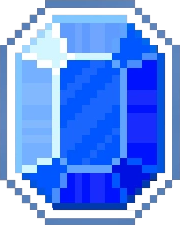
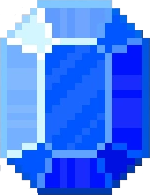
Debut documentation / commentaires
Change l'icone pour le bonus score et ajout image pour explosion. Debut code explosion ??

diff --git a/ControleurJeu.py b/ControleurJeu.py
@@ -1,5 +1,6 @@
 import random
 from threading import Timer
+import time
 from ControleurMenu import ControleurMenu
 from ModeleJeu import Asteroide, Laser, Ovni, Missile, Mine, PowerUp
 from VueJeu import VueJeu
@@ -9,13 +10,18 @@ from functools import partial
 
 
 class Mouvement(tk.Frame):
+    '''
+    Classe mouvement, qui s'occupe de tout ce qui a un rapport avec un mouvement des objets du jeu (vaisseau, missile, ovnis, asteroides, etc)
+    Prend comme parametre un objet tkinter
+    '''
 
     def __init__(self):
-        self.imageV = tk.PhotoImage(file='Images/Vaisseau.png').subsample(12,12)
+        pass
 
 
-    """Methode qui permet le mouvement du vaisseau lorsque la souris se deplace"""
+    
     def moveVaisseau(self, vaisseau, aireDeJeu,e):
+        """Methode qui permet le mouvement du vaisseau lorsque la souris se deplace"""
 
         # Récupérer l'image de Vaisseau et reduire sa taille avec la méthode subsample
         self.imageV = tk.PhotoImage(file='Images/Vaisseau.png').subsample(12,12)
@@ -24,22 +30,27 @@ class Mouvement(tk.Frame):
         # Setter la position de vaiseau dans l'objet vaiseau
         vaisseau.setPositions(e.x,e.y)
 
-    """Methode qui permet le mouvement des missiles"""
+    
     def mouvMissiles(self, aireDeJeu, listeMissiles, timerMoveMissile):
+        """Methode qui permet le mouvement des missiles"""
 
+        #Boucle for each qui va passer dans la liste des missiles qui existent deja
         for missile in listeMissiles:
             aireDeJeu.canva.move(missile.instanceMissile, 0, -10)
             missile.y -=10
 
+            #Si le missile depasse la partie en haut de l'aire de jeu (y <= 0), supprimer le missile, pour eviter de se retrouver avec plein de missiles.
             if missile.y <= 0:
                 aireDeJeu.canva.delete(missile.instanceMissile)
                 listeMissiles.remove(missile)
-
+        
+        #Timer threads
         mouvMissileTimer = Timer(timerMoveMissile,partial(self.mouvMissiles,aireDeJeu, listeMissiles, timerMoveMissile))
         mouvMissileTimer.start()
 
-    """Methode qui permet le mouvement des ovnis"""
+    
     def moveOvnis(self, timerMoveOvnis, vitesseOvni, listeOvnis, aireDeJeu):
+        """Methode qui permet le mouvement des ovnis"""
         
         vitesseHorizontalDroite = 6
         vitesseHorizontalGauche = -6
@@ -47,10 +58,11 @@ class Mouvement(tk.Frame):
         for ovn in listeOvnis: # forEach qui passe dans toute la list listAsteroide
                 
                 ovn.y += vitesseOvni
-                if(ovn.x >= 400):
-                    ovn.direction = "left"
-                elif(ovn.x <= 5):
-                    ovn.direction = "right"
+                if(ovn.x >= 400):               # Si x >= 400, ca veut dire que l'ovni est a gauche de l'aire de jeu.
+                    ovn.direction = "left"      # On s'en sert en bas pour definir si il faut bouger l'ovni a gauche ou a droite
+
+                elif(ovn.x <= 5):               # Si x >= 400, ca veut dire que l'ovni est a gauche de l'aire de jeu.
+                    ovn.direction = "right"     # On s'en sert en bas pour definir si il faut bouger l'ovni a gauche ou a droite
 
                 if(ovn.direction == "right"):
                     aireDeJeu.canva.move(ovn.instanceOvni,vitesseHorizontalDroite ,vitesseOvni)#deplacement de l'ovnis en x = 0, y = 2
@@ -60,7 +72,7 @@ class Mouvement(tk.Frame):
                     ovn.x += vitesseHorizontalGauche
 
                 
-                
+                # Si y >= 500, veut dire que l'ovni est en dehors de l'aire de jeu, donc on supprime
                 if ovn.y >= 500:
                     aireDeJeu.canva.delete(ovn.instanceOvni)
                     listeOvnis.remove(ovn)
@@ -68,8 +80,9 @@ class Mouvement(tk.Frame):
         mouvOvniTimer = Timer(timerMoveOvnis, partial(self.moveOvnis, timerMoveOvnis, vitesseOvni, listeOvnis, aireDeJeu))
         mouvOvniTimer.start()
 
-    """Methode qui permet le mouvement des asteroides"""
+    
     def moveAsteroide(self,timerMoveAsteroide, listAsteroide, aireDeJeu):
+        """Methode qui permet le mouvement des asteroides"""
         
         for aste in listAsteroide: # forEach qui passe dans toute la list listAsteroide
 
@@ -104,8 +117,9 @@ class Mouvement(tk.Frame):
         mouvMineTimer = Timer(0.03, partial(self.mouvMines, listeMine, aireDeJeu))
         mouvMineTimer.start()
 
-    """Methode qui permet le mouvement des powerup"""
+    
     def movePowerUp(self, timerMovePU, vitessePU, listePU, aireDeJeu):
+        """Methode qui permet le mouvement des powerup"""
 
         for pu in listePU: # forEach qui passe dans toute la list listAsteroide
                 
@@ -124,6 +138,11 @@ class Mouvement(tk.Frame):
 
 
 class Shoot(tk.Frame):
+    '''
+    Cette classe s'occupe de tout ce qui a un rapport avec l'action de tirer 
+    (Le vaisseau tire un missile/laser(ET cooldown laser), les ovnis tirent une mine, etc)
+    '''
+
     def __init__(self):
         pass
 
@@ -167,6 +186,10 @@ class Shoot(tk.Frame):
 
 
 class PlayerControl:    # FIXME erreur de parametre quand on appelle perte_hp
+    '''
+    Cette classe s'occupe de controler les informations sur
+    Un utilisateur: augmenter son score, ses points de vie, etc.
+    '''
     def __init__(self, player):
         self.player = player
 
@@ -190,6 +213,10 @@ class PlayerControl:    # FIXME erreur de parametre quand on appelle perte_hp
 
 
 class Spawns(tk.Frame):
+
+    '''
+    Cette classe s'occupe de la generation des objets dans l'aire de jeu (Generation des ovnis, des asteroides ainsi que des bonus (Power Up))
+    '''
 
     def __init__(self):
         self.listeOvnis = []
@@ -246,7 +273,11 @@ class Spawns(tk.Frame):
 
 class Collision:
 
-    def vaseau_ennemie(self, vaisseau, listeOvnis, playerControl):
+    '''
+    Cette classe s'occupe des collisions entre les objets
+    '''
+
+    def vaisseau_ennemie(self, vaisseau, listeOvnis, playerControl): # Collision entre un vaisseau et un ovni
          
         equivalance = 31
          
@@ -271,7 +302,7 @@ class Collision:
                     playerControl.perte_hp()
                     
     
-    def missiles_ovnis(self, listeMissiles, listeOvnis, playerControl):
+    def missiles_ovnis(self, listeMissiles, listeOvnis, playerControl, ): # Collision entre un missile et un ovni
         
         equivalance = 0
         
@@ -295,13 +326,17 @@ class Collision:
                 if MT <= OB and MT >= OT or MY <= OB and MY >= OT or MB >= OT and MB <= OB:
                     if MR >= OL and MR <= OR or ML <= OR and ML >= OL or MX <= OR and MX >= OL:
                         playerControl.augmentation_score()
+                        # ovni.imageOvni = tk.PhotoImage(file='Images/explosion.png').subsample(4,4)
+                        # ovni.instanceOvni = container.canva.create_image(self.x,self.y,anchor=tk.NW,image=self.imageOvni)
+                        # time.sleep(2)
                         listeOvnis.remove(ovni)
                         listeMissiles.remove(missile)
+                        print("Collision missile-ovni")
                         # faire apparaitre explosion
 
 
                         
-    def vaisseau_asteroids(self, vaisseau, listeAsteroids, player):
+    def vaisseau_asteroids(self, vaisseau, listeAsteroids, player): #Collision entre le vaisseau de l'utilisateur et un asteroide
         equivalance = 0
 
         VY = vaisseau.y      #position Y milieu du carré rouge 
@@ -325,7 +360,7 @@ class Collision:
                     player.hp = 0   # se fait aussi avec un setter (meilleure pratique)
                     # faire apparaitre explosion
 
-    def vaseau_PowerUp(self, vaisseau, listPU, playerControl):
+    def vaisseau_PowerUp(self, vaisseau, listPU, playerControl): # Detecte collision entre le vaisseau et un bonus
         
         equivalance = 31
          
@@ -353,7 +388,7 @@ class Collision:
                         playerControl.augmentation_hp()
                     listPU.remove(pu)
 
-    def vaseau_mine(self, vaisseau, listeMine, player):
+    def vaisseau_mine(self, vaisseau, listeMine, player): # Detecte une collision entre un vaisseau et une mine
          
         equivalanceXR = 0
         equivalanceXL = 40
@@ -383,7 +418,7 @@ class Collision:
                         player.hp -= 3
                     listeMine.remove(mine)
 
-    def laser_ovnis(self, vaisseau, listLaser, listeOvnis, playerControl):
+    def laser_ovnis(self, vaisseau, listLaser, listeOvnis, playerControl): # Detecte une collision entre un laser et un ovni
         
         equivalance = 0
         
@@ -399,11 +434,11 @@ class Collision:
                     listeOvnis.remove(ovni)
 
     def verfierToutesCollisions(self, vaisseau, listeOvnis, listeMissiles, listeAsteroides, listeMine, listLaser , listPU, player, playerControl):
-        self.vaseau_ennemie(vaisseau,listeOvnis, playerControl)
+        self.vaisseau_ennemie(vaisseau,listeOvnis, playerControl)
         self.missiles_ovnis(listeMissiles,listeOvnis, playerControl)
         self.vaisseau_asteroids(vaisseau,listeAsteroides, player)
-        self.vaseau_PowerUp(vaisseau, listPU, playerControl)
-        self.vaseau_mine(vaisseau, listeMine, player)
+        self.vaisseau_PowerUp(vaisseau, listPU, playerControl)
+        self.vaisseau_mine(vaisseau, listeMine, player)
         self.laser_ovnis(vaisseau, listLaser, listeOvnis, playerControl)
         verifierCollisionsTimer = Timer(0.03,partial(self.verfierToutesCollisions, vaisseau, listeOvnis, listeMissiles, listeAsteroides, listeMine, listLaser, listPU, player, playerControl))
         verifierCollisionsTimer.start()       
@@ -411,6 +446,10 @@ class Collision:
                         
                         
 class ControleurJeu(tk.Frame):
+    '''
+    Cette classe s'occupe du chronometre dans le jeu
+    '''
+
     def __init__(self):
 
         self.update_time = ''

diff --git a/ControleurMenu.py b/ControleurMenu.py
@@ -6,7 +6,11 @@ import csv
 
 
 class ControleurMenu(tk.Frame):
-    def __init__(self):
+    '''
+    Cette classe permet de modifier les parametres du jeu (tel que la vitesse des ovnis, le nombre d'ovnis qui apparaissent par secondes, etc.) selon
+    la difficulté choisi par l'utilisateur, dans la methode afficherChoixLevel() de la classe Choix.
+    '''
+    def __init__(self): #Constructeur
         self.timerMoveMissile = 0.03
         self.timerMoveAsteroide = 0.03
         self.timerCreateAsteroide = 3
@@ -20,20 +24,26 @@ class ControleurMenu(tk.Frame):
 
     
     def niveau(self, level):
+        '''
+        Cette methode s'occupe de modifier les reglages du jeu en fonction de la difficulté choisi par l'utilisateur
+        '''
 
         # jeu.start_timer()
+
+        #Si le niveau de difficulte choisi est FACILE:
         if level.niveau == "facile":
             self.timerMoveMissile = 0.03
             self.timerMoveAsteroide = 0.03
-            self.timerCreateAsteroide = 5
-            self.timerCreateOvnis = 5
+            self.timerCreateAsteroide = 5       #Taux d'apparition des ovnis, 1 mine chaque x secondes
+            self.timerCreateOvnis = 5           #Taux d'apparition des ovnis, 1 mine chaque x secondes
             self.timerMoveOvnis = 0.03
             self.vitesseOvni = 2
-            self.timerShootMine = 5
-            self.timerCreatePU = 5
+            self.timerShootMine = 5             #Taux d'apparition des mines laissées par les ovnis, 1 mine chaque x secondes
+            self.timerCreatePU = 5              #Taux d'apparition des bonus (PowerUp), 1 bonus chaque x secondes
             self.timerMovePU = 0.03
-            self.vitessePU = 2
+            self.vitessePU = 2                  #Vitesse des bonus (PowerUp)
         
+        #Si le niveau de difficulte choisi est MOYEN:
         elif level.niveau == "moyen":
             self.timerMoveMissile = 0.03
             self.timerMoveAsteroide = 0.03
@@ -46,7 +56,7 @@ class ControleurMenu(tk.Frame):
             self.timerMovePU = 0.03
             self.vitessePU = 2
             
-
+        #Si le niveau de difficulte choisi est DIFFICILE:
         elif level.niveau == "difficile":
             self.timerMoveMissile = 0.03
             self.timerMoveAsteroide = 0.03
@@ -65,7 +75,7 @@ class Choix:
         pass
 
     def afficherChoixLevel(self,menu,level,enregistrer,jeu):
-    #creation de la fenetre
+        #creation de la fenetre pour le choix de la difficulté
         fenetreLevel = tk.Tk()
         fenetreLevel.title("Choix du niveau")
         fenetreLevel.geometry("300x300")

diff --git a/ModeleJeu.py b/ModeleJeu.py
@@ -9,17 +9,20 @@ class AireDeJeu:
     def __init__(self, container):
         self.height = 500
         self.width = 450 
-        self.imageBackground = tk.PhotoImage(file='Images/Background.png').subsample(2,2)
-
+        self.imageBackground = tk.PhotoImage(file='Images/Background.png').subsample(2,2) #Image de fond
+        
         self.canva = tk.Canvas(container, height=self.height, width=self.width)
         self.canva.create_image(10,10, image=self.imageBackground)
         self.canva.grid(column=1, row=1, padx=20) # pour centrer et donner un padding
-        # self.canva.config(cursor="none")
+        self.canva.config(cursor="none")
 
 class Player:
+    '''
+    Cette classe initialise un joueur. L'utilisateur commence toujours une partie avec 0 de score et 10 points de vie (HealthPoints)
+    '''
     def __init__(self):
         self.score = 0
-        self.hp = 10
+        self.hp = 10 #Points de vie
 
 
 class Vaiseau:
@@ -71,6 +74,9 @@ class Laser:
         # self.instanceMissile = container.canva.create_image(self.x, self.y, image=self.imageMissile)
 
 class Ovni:
+    '''
+    Cette classe s'occupe d'initialiser un objet ovni. Il comprend les cordonees ainsi que l'image de l'ovni.
+    '''
     def __init__(self,container, x, y):
         self.x = x
         self.y = y
@@ -97,9 +103,13 @@ class Asteroide:
         
 
 class PowerUp:
+    '''
+    Cette classe permet d'initialiser les bonus (power up). Elle est utilise dans controleur jeu.
+    '''
     def __init__(self,container, x, y):
         self.x = x
         self.y = y
+        # On defini ici, de façon aleatoire (50% de chance), si le bonus est un bonus de vie ou un bonus de score.
         if random.randint(0,1) == 0:
             self.type = "Score"
             self.imagePU = tk.PhotoImage(file='Images/powerUP_Score.png').subsample(7,7) #Creation de l'image Powerup TODO generation aleatoire pour l'image et string? pour differencier quel powerup c'est

diff --git a/Main.py b/Main.py
@@ -21,12 +21,15 @@ if __name__ == "__main__":
 
     #creation fenetre root
     root = tk.Tk()
+    # root.config(cursor="none")
     root.title("Star Fighter")
     root.config(background= couleurTheme)
     root.geometry("510x680")
 
     # créer un containter et le centrer dans la fenetre tk
     mainContainer = tk.Frame(root, background= couleurTheme)
+    mainContainer.config(cursor="none")
+    
     mainContainer.pack() # pour centrer et donner un padding
 
 
@@ -69,6 +72,7 @@ if __name__ == "__main__":
     #-------------------------------------------------------------------------------------------------------------------------------
         # Affichage du menu et la récuperation des choix
 
+    #Initialisation des objets du jeu
     jeu = ControleurJeu()
     enregistrer = Enregistrer()
     menu = ControleurMenu()
@@ -77,17 +81,13 @@ if __name__ == "__main__":
     choix.afficherChoixLevel(menu, level, enregistrer, jeu)
 
     
-    
-    aireDeJeu = AireDeJeu(mainContainer)
-    jeu.create_widget(statsContainer)
-    jeu.startTimer()
-
-
-    
-
-
     # créer l'aire de jeu et le mettre dans un grid en lui donnant du padding
+    aireDeJeu = AireDeJeu(mainContainer)
     
+    jeu.create_widget(statsContainer) #HUD
+    jeu.startTimer() #Timer, commence en mem
+
+
     # créer un player qui contient les scores et les vies
     player = Player()
     # controler le player
